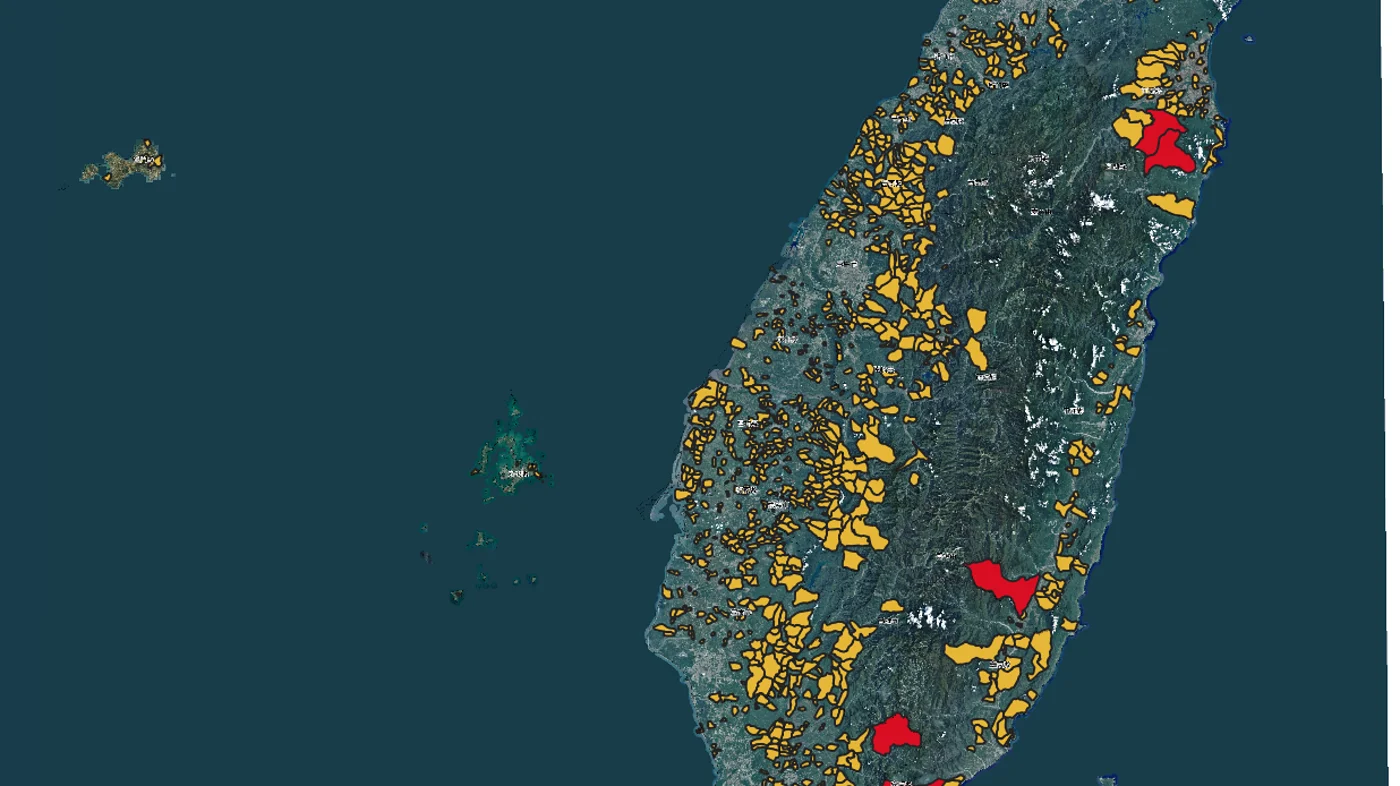
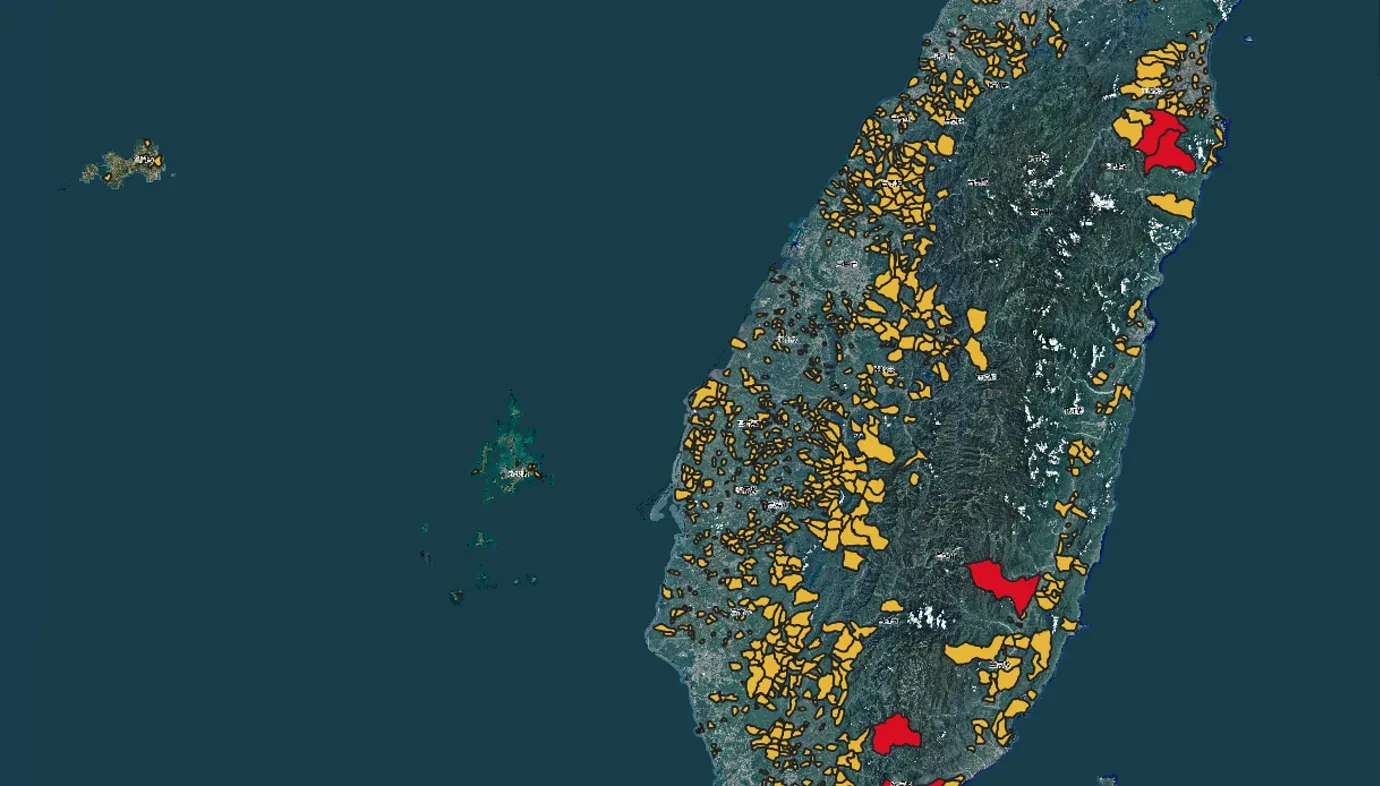
Geospatial Analysis: the hero map loses the white screenshot edge down its right side
The source image carried a slanted white strip in its last 20 columns
(a screen-capture edge, no map content), which showed as a pale bar at
the right of the hero at desktop width. Cropped to 1380 px; the map is
otherwise unchanged.

diff --git a/human-practices/ihp.css b/human-practices/ihp.css
@@ -521,7 +521,7 @@ html:not(.js) .rail__panel + .rail__panel { border-top: 1px solid var(--gray-300
   border-bottom: 1px solid var(--gray-300);
 }
 @media (min-width: 62rem) { .rubric__row { grid-template-columns: 3rem minmax(0, 22rem) minmax(0, 1fr); } }
-.rubric__no { font-size: clamp(1.5rem, 1.2rem + 1vw, 2rem); font-weight: 700; color: var(--leaf-700); line-height: 1; font-variant-numeric: tabular-nums; }
+.rubric__no { font-size: var(--text-sm); font-weight: 700; color: var(--gray-500); line-height: 1.6; letter-spacing: .06em; font-variant-numeric: tabular-nums; }
 .rubric__ask { margin: 0; font-weight: 700; color: var(--leaf-900); line-height: 1.35; }
 .rubric__ask small { display: block; margin-top: .35rem; font-weight: 400; font-size: var(--text-xs); letter-spacing: .02em; color: var(--gray-500); }
 .rubric__ans p { margin: 0 0 var(--sp-2); max-width: 72ch; }

diff --git a/geospatial-analysis/index.html b/geospatial-analysis/index.html
@@ -51,7 +51,7 @@
         <source type="image/webp" srcset="../assets/img/geospatial/hero-farmland-1400.webp" />
         <img src="../assets/img/geospatial/hero-farmland-1400.jpg"
              alt="Satellite view of western and central Taiwan on a dark sea, with hundreds of small yellow polygons marking farmland communities of under 1.1 hectares scattered down the western plain, and three larger red polygons marking the rare holdings above that size."
-             width="1400" height="786" fetchpriority="high" />
+             width="1380" height="786" fetchpriority="high" />
       </picture>
       <div class="pagehead__heroinner">
         <p class="pagehead__eyebrow">
